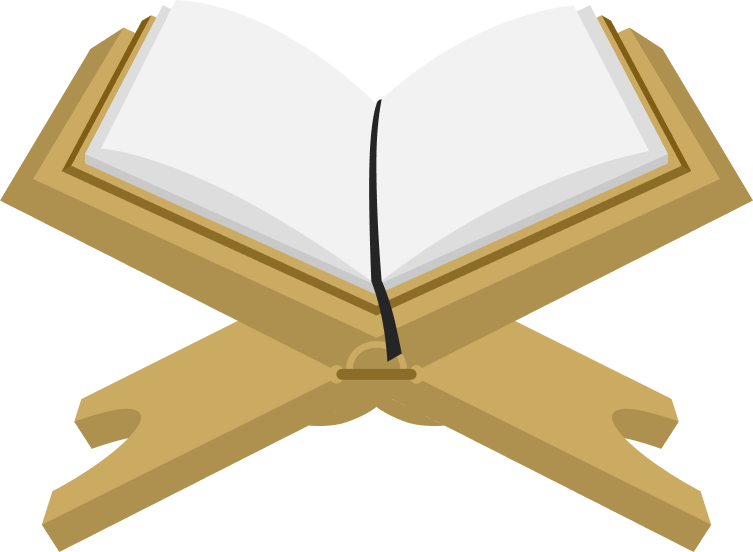
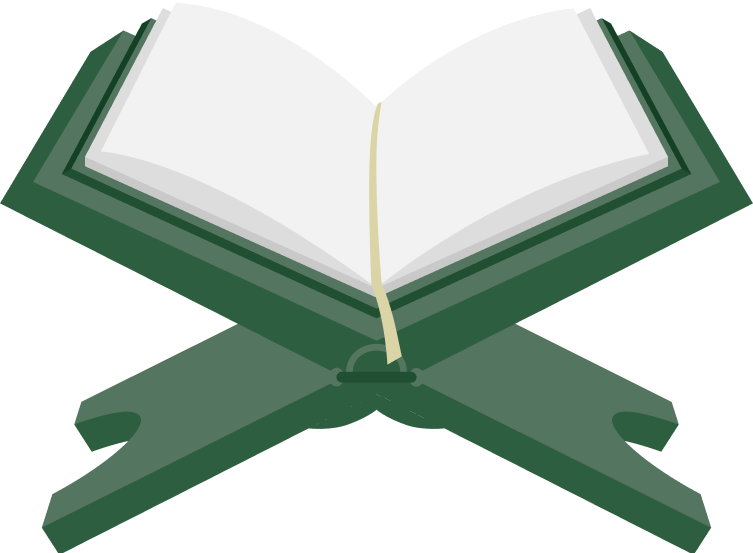
Theme color & assets updated

diff --git a/features/home/lib/presentation/ui/home_screen.dart b/features/home/lib/presentation/ui/home_screen.dart
@@ -12,8 +12,11 @@ import 'package:flutter/material.dart';
 import 'package:home/presentation/bloc/bloc.dart';
 import 'package:home/presentation/ui/widget/banner_last_read_widget.dart';
 import 'package:home/presentation/ui/widget/list_surah_widget.dart';
+import 'package:home/presentation/ui/widget/qibla_direction_page.dart';
 import 'package:resources/styles/color.dart';
 import 'package:resources/styles/text_styles.dart';
+
+import 'widget/follow_us_bottomsheet.dart';
 
 class HomeScreen extends StatefulWidget {
   const HomeScreen({super.key});
@@ -56,6 +59,14 @@ class _HomeScreenState extends State<HomeScreen> with RouteAware {
     return Consumer<PreferenceSettingsProvider>(
       builder: (context, prefSetProvider, _) {
         return Scaffold(
+            floatingActionButton: InkWell(
+              onTap: () => Navigator.of(context).push(MaterialPageRoute(
+                  builder: (context) => const QiblaDirectionPage())),
+              child: Image.asset(
+                'assets/direction_icon.png',
+                scale: 2.5,
+              ),
+            ),
             body: currentIndex == 1
                 ? const PrayersScreen()
                 : currentIndex == 2
@@ -94,8 +105,8 @@ class _HomeScreenState extends State<HomeScreen> with RouteAware {
                                           ),
                                           const Spacer(),
                                           // InkWell(
-                                          //   onTap: () => Navigator.pushNamed(
-                                          //       context, NamedRoutes.bookmarkScreen),
+                                          // onTap: () => Navigator.pushNamed(
+                                          //     context, NamedRoutes.bookmarkScreen),
                                           //   child: Image.asset(
                                           //     prefSetProvider.isDarkTheme
                                           //         ? 'assets/icon_bookmark_white.png'
@@ -106,15 +117,12 @@ class _HomeScreenState extends State<HomeScreen> with RouteAware {
                                           // const SizedBox(width: 8.0),
                                           InkWell(
                                             onTap: () =>
-                                                prefSetProvider.enableDarkTheme(
-                                                    !prefSetProvider
-                                                        .isDarkTheme),
+                                                showFollowUsBottomSheet(
+                                                    context),
                                             borderRadius:
                                                 BorderRadius.circular(10.0),
                                             child: Icon(
-                                              prefSetProvider.isDarkTheme
-                                                  ? Icons.light_mode_sharp
-                                                  : Icons.dark_mode_sharp,
+                                              Icons.chat_outlined,
                                               size: 24.0,
                                               color: prefSetProvider.isDarkTheme
                                                   ? Colors.white
@@ -280,6 +288,17 @@ class _HomeScreenState extends State<HomeScreen> with RouteAware {
                 ),
               ),
             ));
+      },
+    );
+  }
+
+  void showFollowUsBottomSheet(BuildContext context) {
+    showModalBottomSheet(
+      context: context,
+      backgroundColor: Colors.transparent,
+      isScrollControlled: true,
+      builder: (context) {
+        return const FollowUsBottomSheet();
       },
     );
   }

diff --git a/features/home/lib/presentation/ui/widget/follow_us_bottomsheet.dart b/features/home/lib/presentation/ui/widget/follow_us_bottomsheet.dart
@@ -1,0 +1,97 @@
+import 'package:flutter/material.dart';
+
+class FollowUsBottomSheet extends StatelessWidget {
+  const FollowUsBottomSheet({super.key});
+
+  @override
+  Widget build(BuildContext context) {
+    return Container(
+      decoration: BoxDecoration(
+        color: Colors.grey.shade100,
+        borderRadius: BorderRadius.vertical(top: Radius.circular(16)),
+      ),
+      padding: const EdgeInsets.symmetric(horizontal: 16, vertical: 12),
+      child: Column(
+        mainAxisSize: MainAxisSize.min,
+        children: [
+          _buildHeader(context),
+          const SizedBox(height: 16),
+          _buildOption(
+            iconPath: 'assets/youtube_icon.png',
+            iconColor: Colors.red,
+            title: "@mirwaizfoundation",
+            subtitle: "Follow us on Youtube",
+          ),
+          _buildOption(
+            iconPath: 'assets/insta_icon.png',
+            iconColor: Colors.black,
+            title: "@mirwaizfoundation",
+            subtitle: "Follow us on Instagram",
+          ),
+          _buildOption(
+            iconPath: 'assets/person_raised_hand.png',
+            iconColor: Colors.black54,
+            title: "Ask the Aalim",
+            subtitle: "",
+          ),
+          const SizedBox(height: 16),
+        ],
+      ),
+    );
+  }
+
+  Widget _buildHeader(BuildContext context) {
+    return Row(
+      mainAxisAlignment: MainAxisAlignment.spaceBetween,
+      children: [
+        const Text(
+          "Follow Us",
+          style: TextStyle(
+              fontSize: 22, fontWeight: FontWeight.bold, color: Colors.black),
+        ),
+        IconButton(
+          icon: const Icon(Icons.close, color: Colors.black54),
+          onPressed: () => Navigator.pop(context),
+        ),
+      ],
+    );
+  }
+
+  Widget _buildOption({
+    required String iconPath,
+    required Color iconColor,
+    required String title,
+    required String subtitle,
+  }) {
+    return Container(
+      padding: const EdgeInsets.all(12),
+      margin: const EdgeInsets.symmetric(vertical: 6),
+      decoration: BoxDecoration(
+        color: Colors.white,
+        borderRadius: BorderRadius.circular(12),
+      ),
+      child: ListTile(
+        leading: Container(
+          padding: const EdgeInsets.all(8),
+          decoration: BoxDecoration(
+            color: Colors.grey.shade100,
+            borderRadius: BorderRadius.circular(8),
+          ),
+          child: Image.asset(
+            iconPath,
+            scale: 2,
+          ),
+        ),
+        title: Text(
+          title,
+          style: const TextStyle(
+              fontWeight: FontWeight.bold, fontSize: 16, color: Colors.black),
+        ),
+        subtitle: subtitle.isNotEmpty
+            ? Text(subtitle, style: const TextStyle(color: Colors.black54))
+            : null,
+        trailing: const Icon(Icons.chevron_right, color: Colors.black54),
+      ),
+    );
+  }
+}

diff --git a/resources/resources/lib/styles/color.dart b/resources/resources/lib/styles/color.dart
@@ -1,15 +1,15 @@
 import 'package:flutter/material.dart';
 
-const Color kPurplePrimary = Color(0xFFAE914F); //#863ED5
-const Color kPurpleSecondary = Color(0xFFAE914F); //#672CBC
+const Color kPurplePrimary = Color(0xFF2E5D40); //#863ED5
+const Color kPurpleSecondary = Color(0xFF2E5D40); //#672CBC
 const Color kDarkPurple = Color.fromARGB(255, 90, 64, 5); //#3B1E77
 const Color kBlackPurple = Color(0xFF252525); //#240F4F
 const Color kGrey = Color.fromRGBO(135, 137, 163, 1.0); //#8789A3
 const Color kGrey92 = Color.fromRGBO(235, 235, 235, 1.0); //#ebebeb
 const Color kGreyLight = Color.fromRGBO(171, 175, 215, 1.0); //#abafd7
 const Color kMikadoYellow = Color.fromRGBO(249, 176, 145, 1.0); //#F9B091
-const Color kLinearPurple1 = Color(0xFFF0D390);
-const Color kLinearPurple2 = Color(0xFFAE914F);
+const Color kLinearPurple1 = Color(0xFF547560);
+const Color kLinearPurple2 = Color(0xFF2E5D40);
 const Color kDarkTheme = Color.fromRGBO(9, 25, 69, 1.0); //#152451
 
 const kColorScheme = ColorScheme(

diff --git a/features/splash/lib/presentation/ui/splash_screen.dart b/features/splash/lib/presentation/ui/splash_screen.dart
@@ -2,6 +2,7 @@ import 'package:common/utils/navigation/navigation.dart';
 import 'package:dependencies/show_up_animation/show_up_animation.dart';
 import 'package:flutter/material.dart';
 import 'package:resources/constant/named_routes.dart';
+import 'package:resources/styles/color.dart';
 
 class SplashScreen extends StatelessWidget {
   final duration = const Duration(seconds: 3);
@@ -23,7 +24,7 @@ class SplashScreen extends StatelessWidget {
   @override
   Widget build(BuildContext context) {
     return Scaffold(
-      backgroundColor: Colors.white,
+      backgroundColor: kPurplePrimary,
       body: Center(
         child: Column(
           mainAxisSize: MainAxisSize.min,

diff --git a/features/splash/lib/presentation/ui/onboard_screen.dart b/features/splash/lib/presentation/ui/onboard_screen.dart
@@ -72,8 +72,8 @@ class OnBoardScreen extends StatelessWidget {
                           borderRadius: BorderRadius.circular(18.0),
                           gradient: const LinearGradient(
                             colors: [
-                              Color(0xFFF0D390),
-                              Color(0xFFAE914F),
+                              kLinearPurple1,
+                              kLinearPurple2,
                             ],
                             begin: FractionalOffset(0.0, 1.0),
                             end: FractionalOffset(1.0, 0.0),

diff --git a/features/duas/lib/presentation/ui/prayers_screen.dart b/features/duas/lib/presentation/ui/prayers_screen.dart
@@ -212,6 +212,7 @@ class PrayerWidget extends StatelessWidget {
               Image.asset(
                 dua.assetImage,
                 scale: 2.3,
+                color: kPurplePrimary,
               ),
               const SizedBox(width: 20),
               Text(
